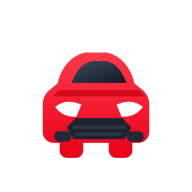
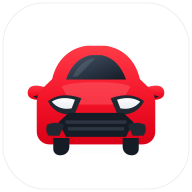
Corrigir ícone PWA sem faixa vermelha

Changed region(s): [[0.125, 0.2188, 0.875, 0.8438]]

diff --git a/index.html b/index.html
@@ -6,8 +6,8 @@
 <meta name="theme-color" content="#FDCA01" />
 <title>Catálogo Crediti</title>
 <link rel="manifest" href="/manifest.webmanifest" />
-<link rel="icon" type="image/png" sizes="192x192" href="/icon-192.png" />
-<link rel="apple-touch-icon" sizes="180x180" href="/apple-touch-icon.png" />
+<link rel="icon" type="image/png" sizes="192x192" href="/icon-192.png?v=2" />
+<link rel="apple-touch-icon" sizes="180x180" href="/apple-touch-icon.png?v=2" />
 <meta name="apple-mobile-web-app-capable" content="yes" />
 <meta name="apple-mobile-web-app-status-bar-style" content="default" />
 <meta name="apple-mobile-web-app-title" content="Catálogo Crediti" />

diff --git a/sw.js b/sw.js
@@ -1,4 +1,8 @@
-const CACHE='catalogo-crediti-v1';
+const CACHE='catalogo-crediti-v2';
 self.addEventListener('install',()=>self.skipWaiting());
-self.addEventListener('activate',e=>e.waitUntil(self.clients.claim()));
+self.addEventListener('activate',e=>e.waitUntil((async()=>{
+  const keys=await caches.keys();
+  await Promise.all(keys.filter(k=>k!==CACHE).map(k=>caches.delete(k)));
+  await self.clients.claim();
+})()));
 self.addEventListener('fetch',()=>{});
